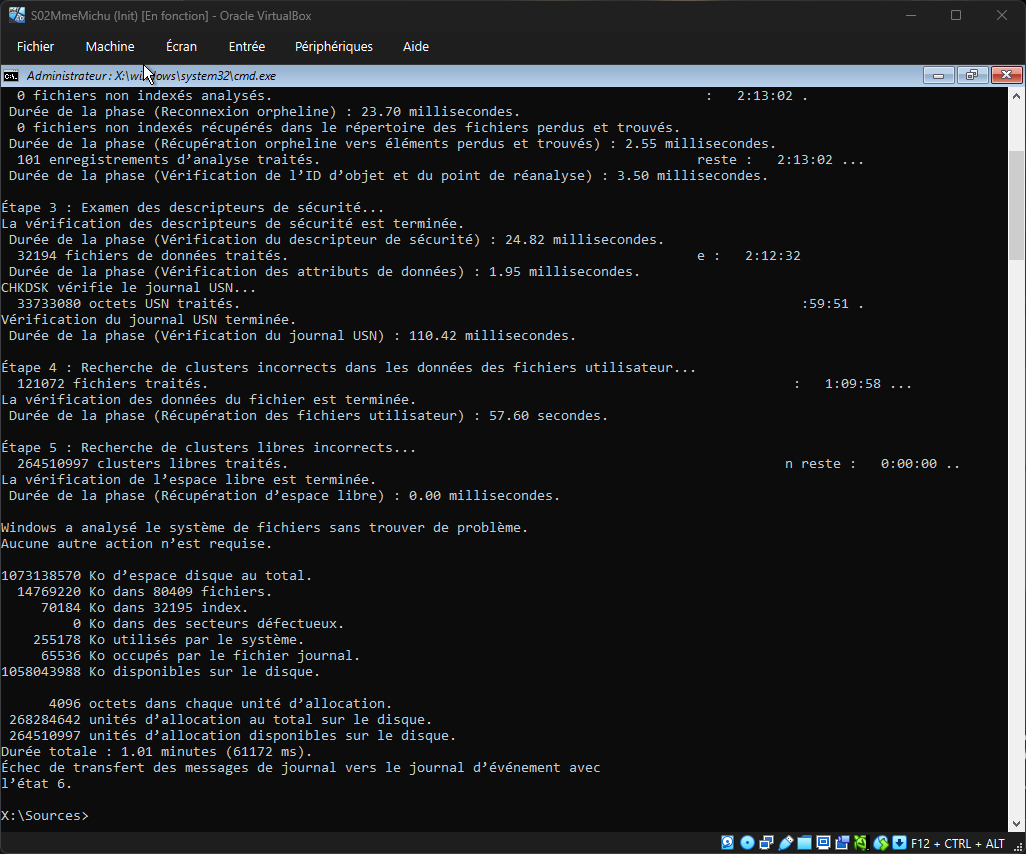
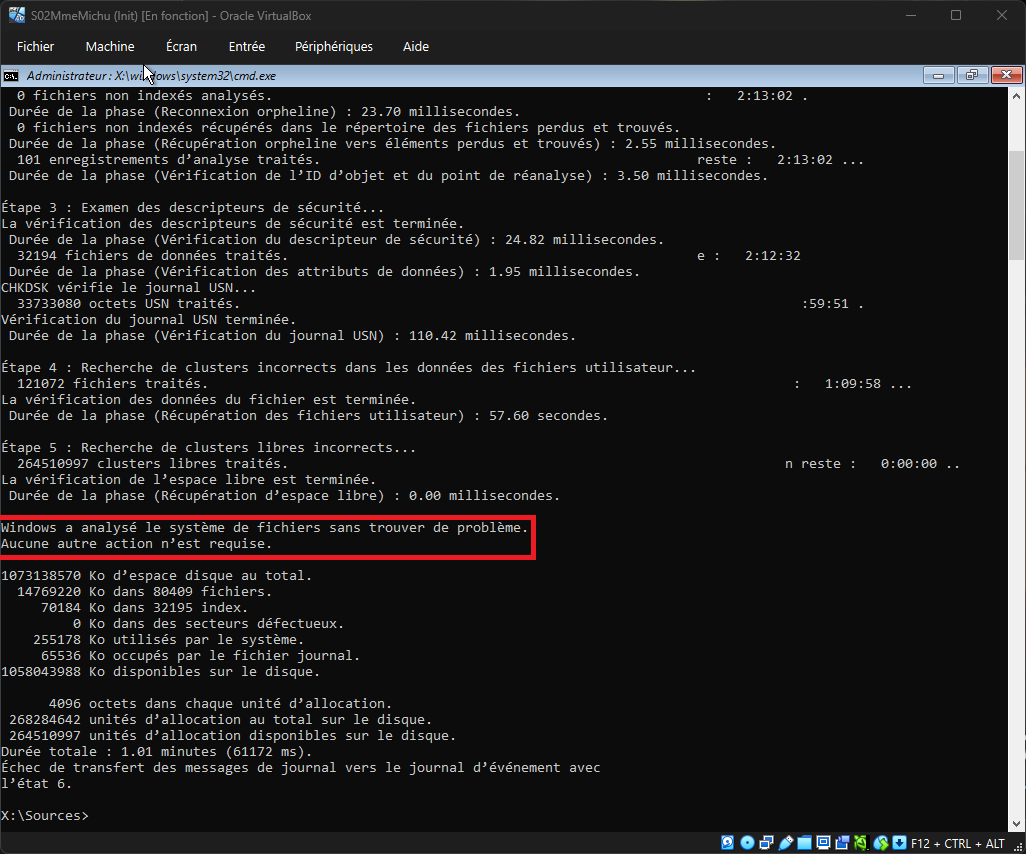
Update Challenge 0204

Changed region(s): [[0.0, 0.5785, 0.5302, 0.6698]]

diff --git a/challenges/Challenge_0204.md b/challenges/Challenge_0204.md
@@ -131,4 +131,12 @@ Tout est OK on va pouvoir passer au SFC (System File Checker) pour analyser les 
 
 ``/offwindir=E:\Windows`` : Spécifie le chemin exact du dossier Windows à réparer.
 
-![SFC](../images/TPmichu10.png)
+![SFC](../images/TPmichu11.png)
+
+SFC à bien détecté et réparé des fichiers corrompus.
+
+![SFCOK](../images/TPmichu12.png)
+
+Je redémarre la machine et c'est bon, Windows est réparé et load comme il se doit, on tombe sur la session de Mme Michu !
+
+![OKMICHU](../images/TPmichu13.png)
